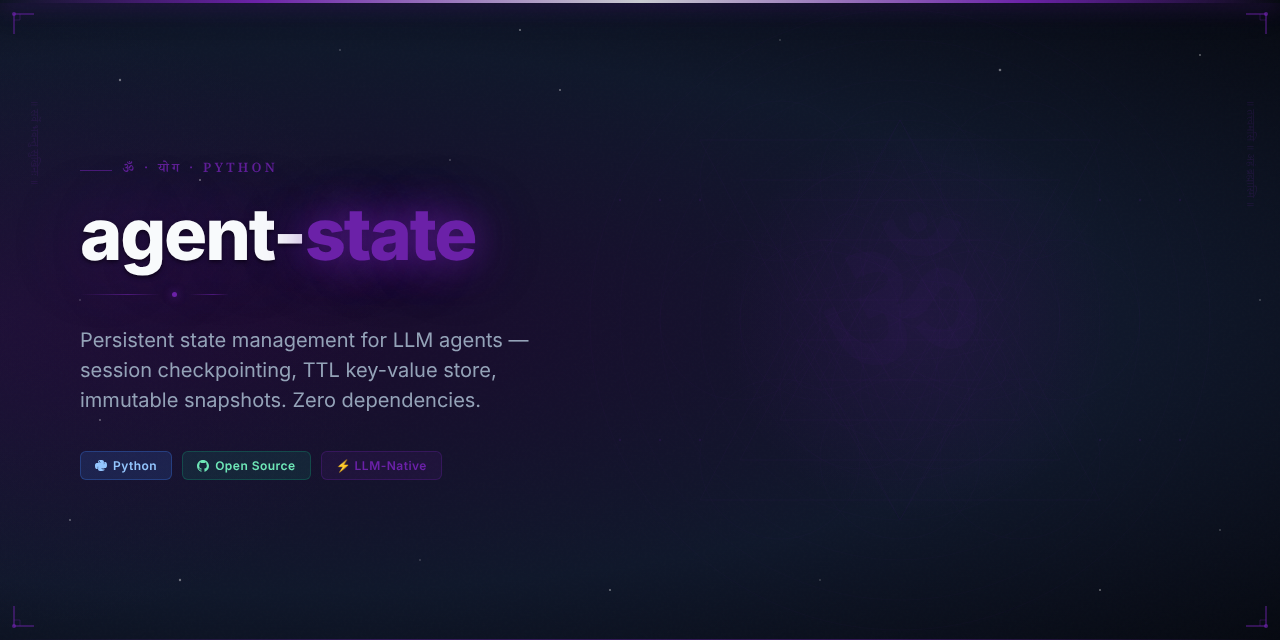
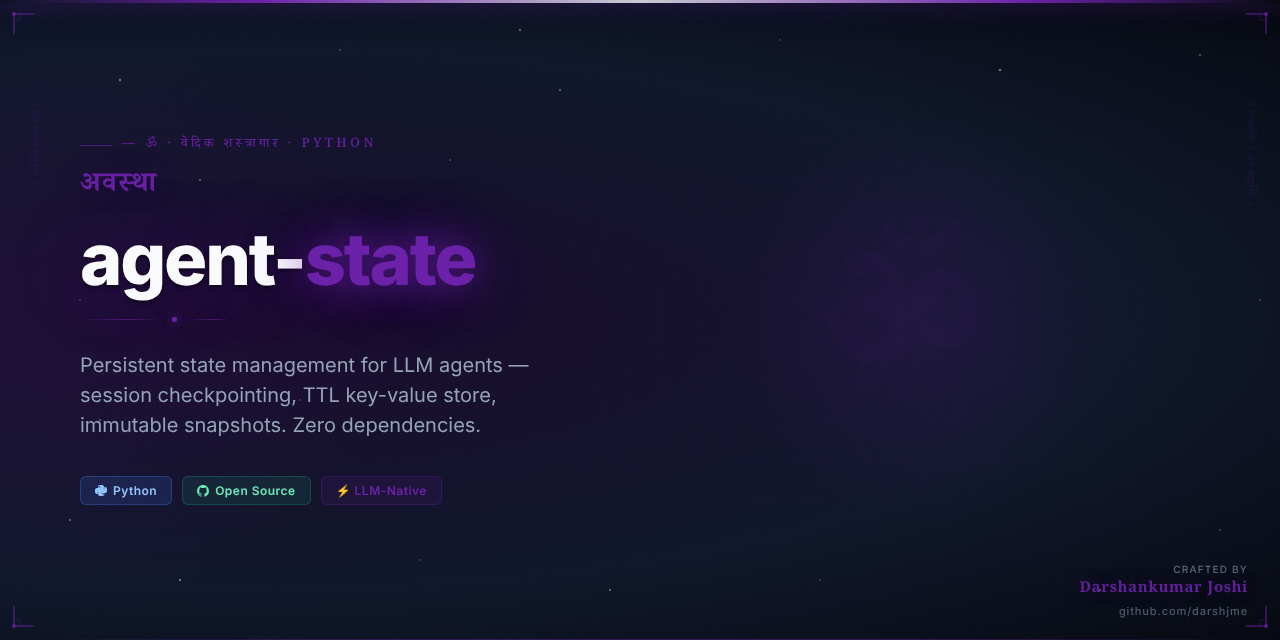
feat: add Vedic Arsenal hero image and updated README
Part of darshjme/arsenal — 100 production-grade Python libraries for LLM agents.
Vedic branding: ancient philosophy meets modern AI engineering.

diff --git a/README.md b/README.md
@@ -1,10 +1,12 @@
 <div align="center">
 
-<img src="assets/agent-state-hero.png" alt="agent-state — Vedic Arsenal" width="100%" />
+<img src="assets/agent-state-hero.png" alt="agent-state — Vedic Arsenal by Darshankumar Joshi" width="100%" />
 
 # 🔮 agent-state
 
-### *अवस्था* — Avastha — the three states of being
+<h3><em>अवस्था</em></h3>
+
+> *Avastha — the three states of being*
 
 **Persistent state management for LLM agents — session checkpointing, TTL key-value store, immutable snapshots. Zero dependencies.**
 
@@ -39,6 +41,20 @@ Or clone directly:
 git clone https://github.com/darshjme/agent-state.git
 cd agent-state
 pip install -e .
+```
+
+## How It Works
+
+```mermaid
+flowchart TD
+    A[Init State] --> B[Active]
+    B --> C{Event?}
+    C -- Checkpoint --> D[Snapshot]
+    C -- Restore --> E[Load Snapshot]
+    C -- Expire --> F[TTL Eviction]
+    D --> B
+    E --> B
+    style B fill:#3b82f6,color:#fff
 ```
 
 ## Quick Start
@@ -90,7 +106,7 @@ MIT — use freely, build freely.
 
 <div align="center">
 
-**Built with 🔮 by [Darshankumar Joshi](https://github.com/darshjme)**
+**Built with 🔮 by [Darshankumar Joshi](https://github.com/darshjme)** · [@thedarshanjoshi](https://twitter.com/thedarshanjoshi)
 
 *"कर्मण्येवाधिकारस्ते मा फलेषु कदाचन"*
 *Your right is to action alone, never to the fruits thereof.*
